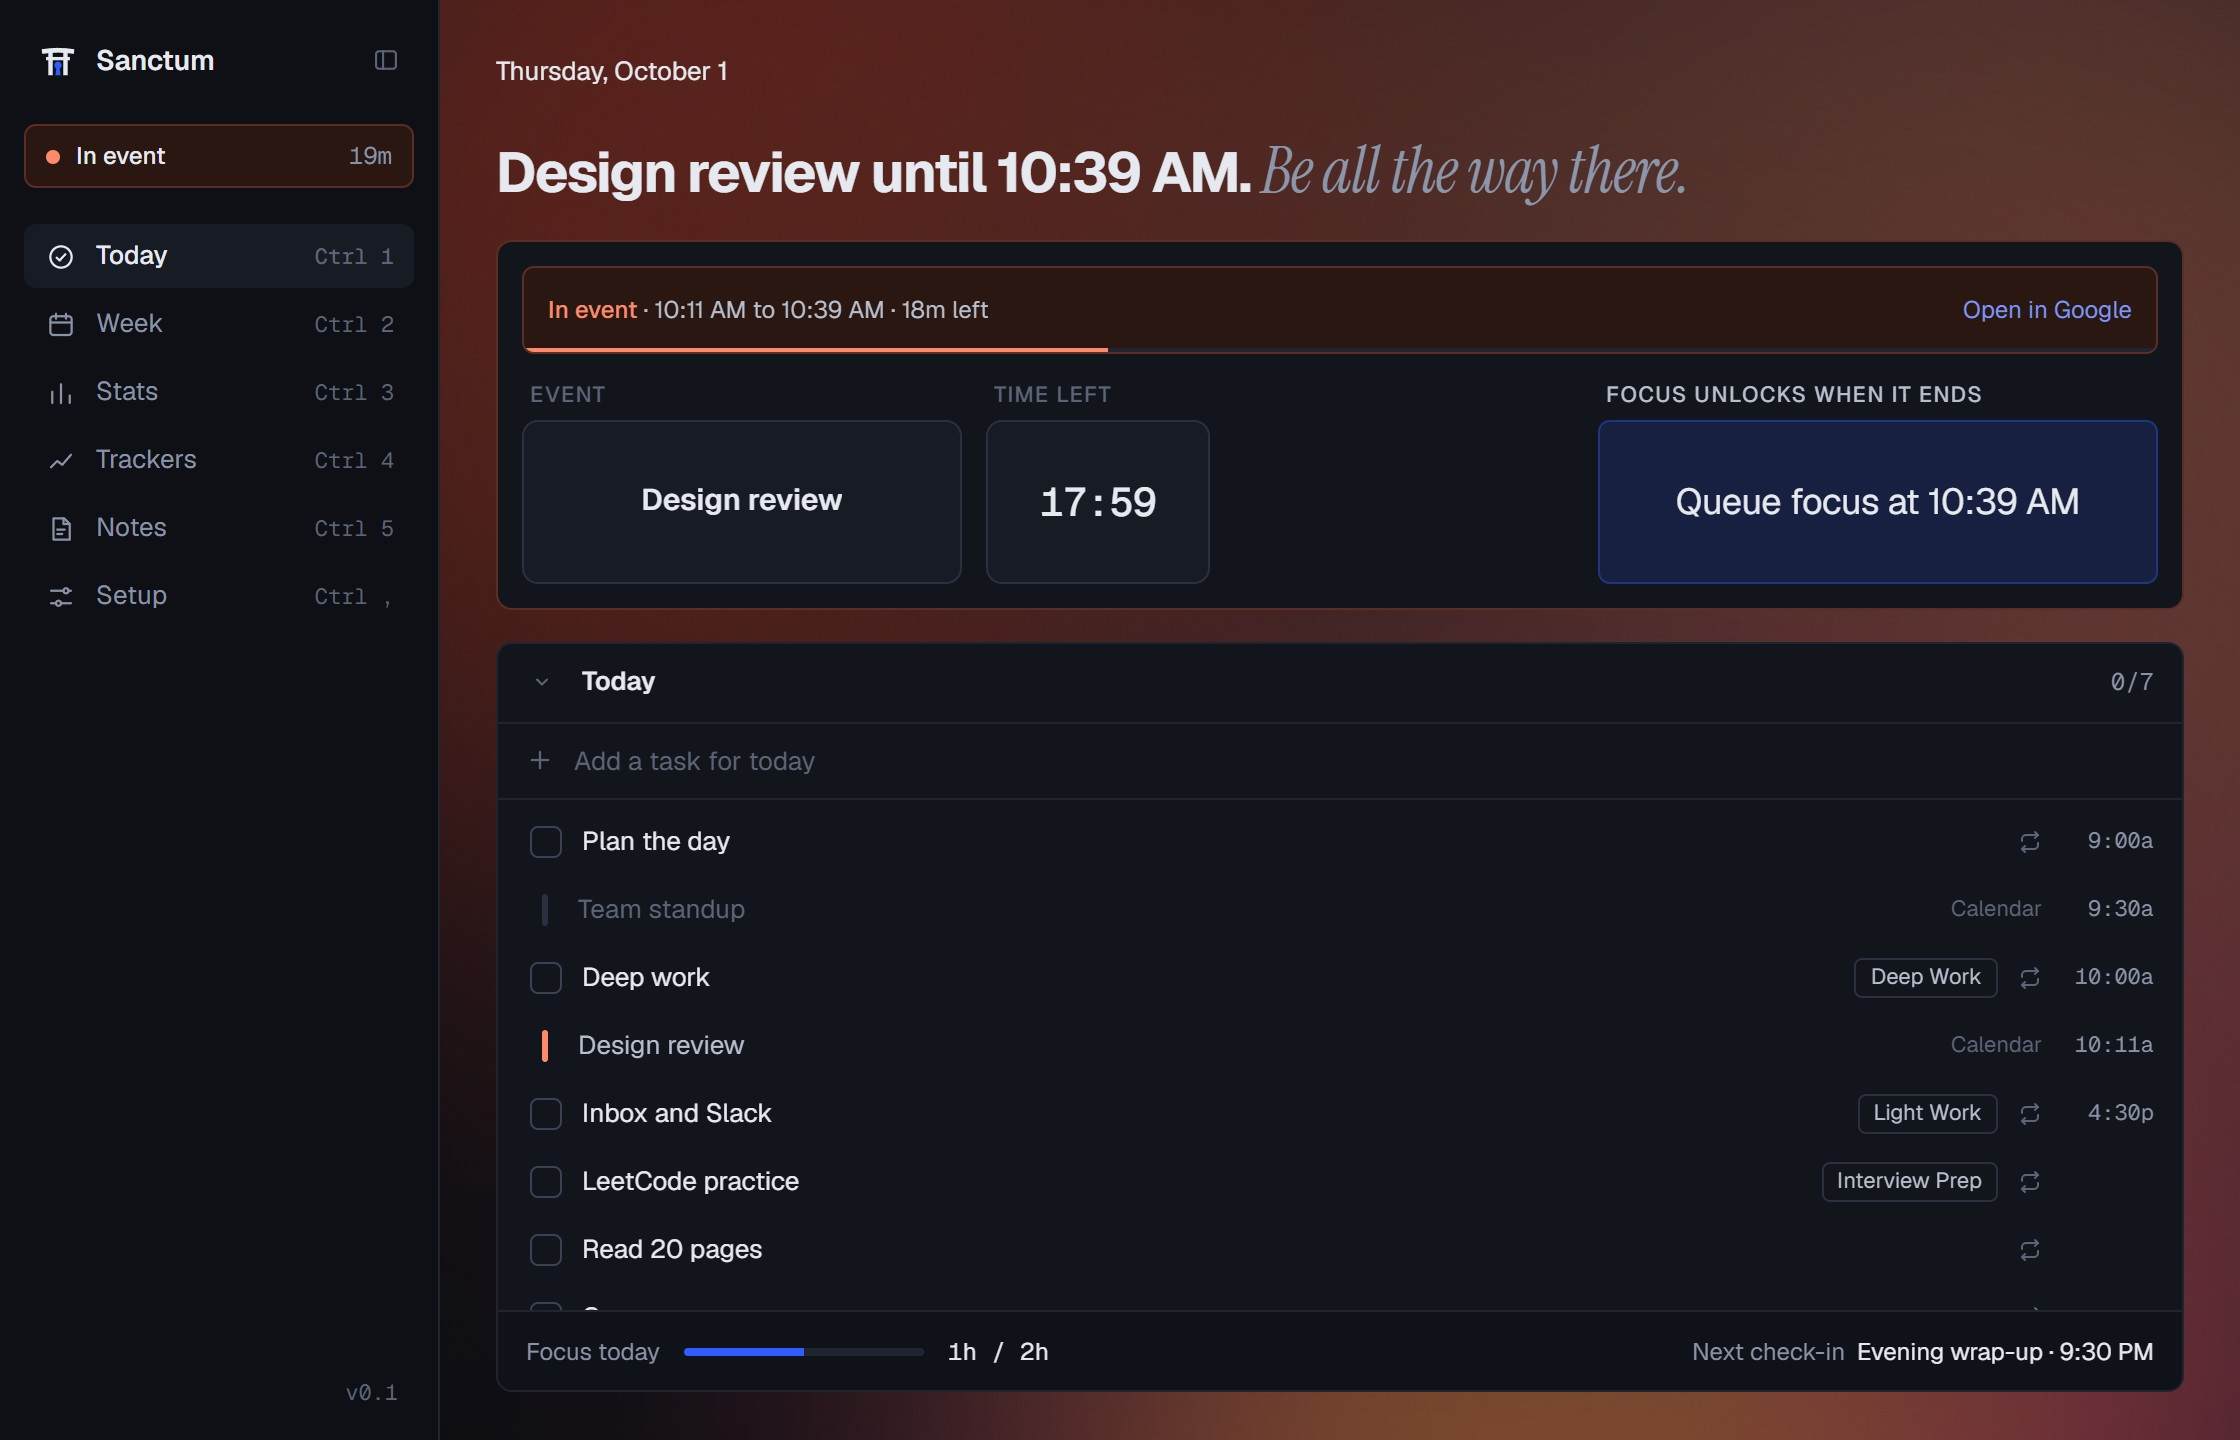
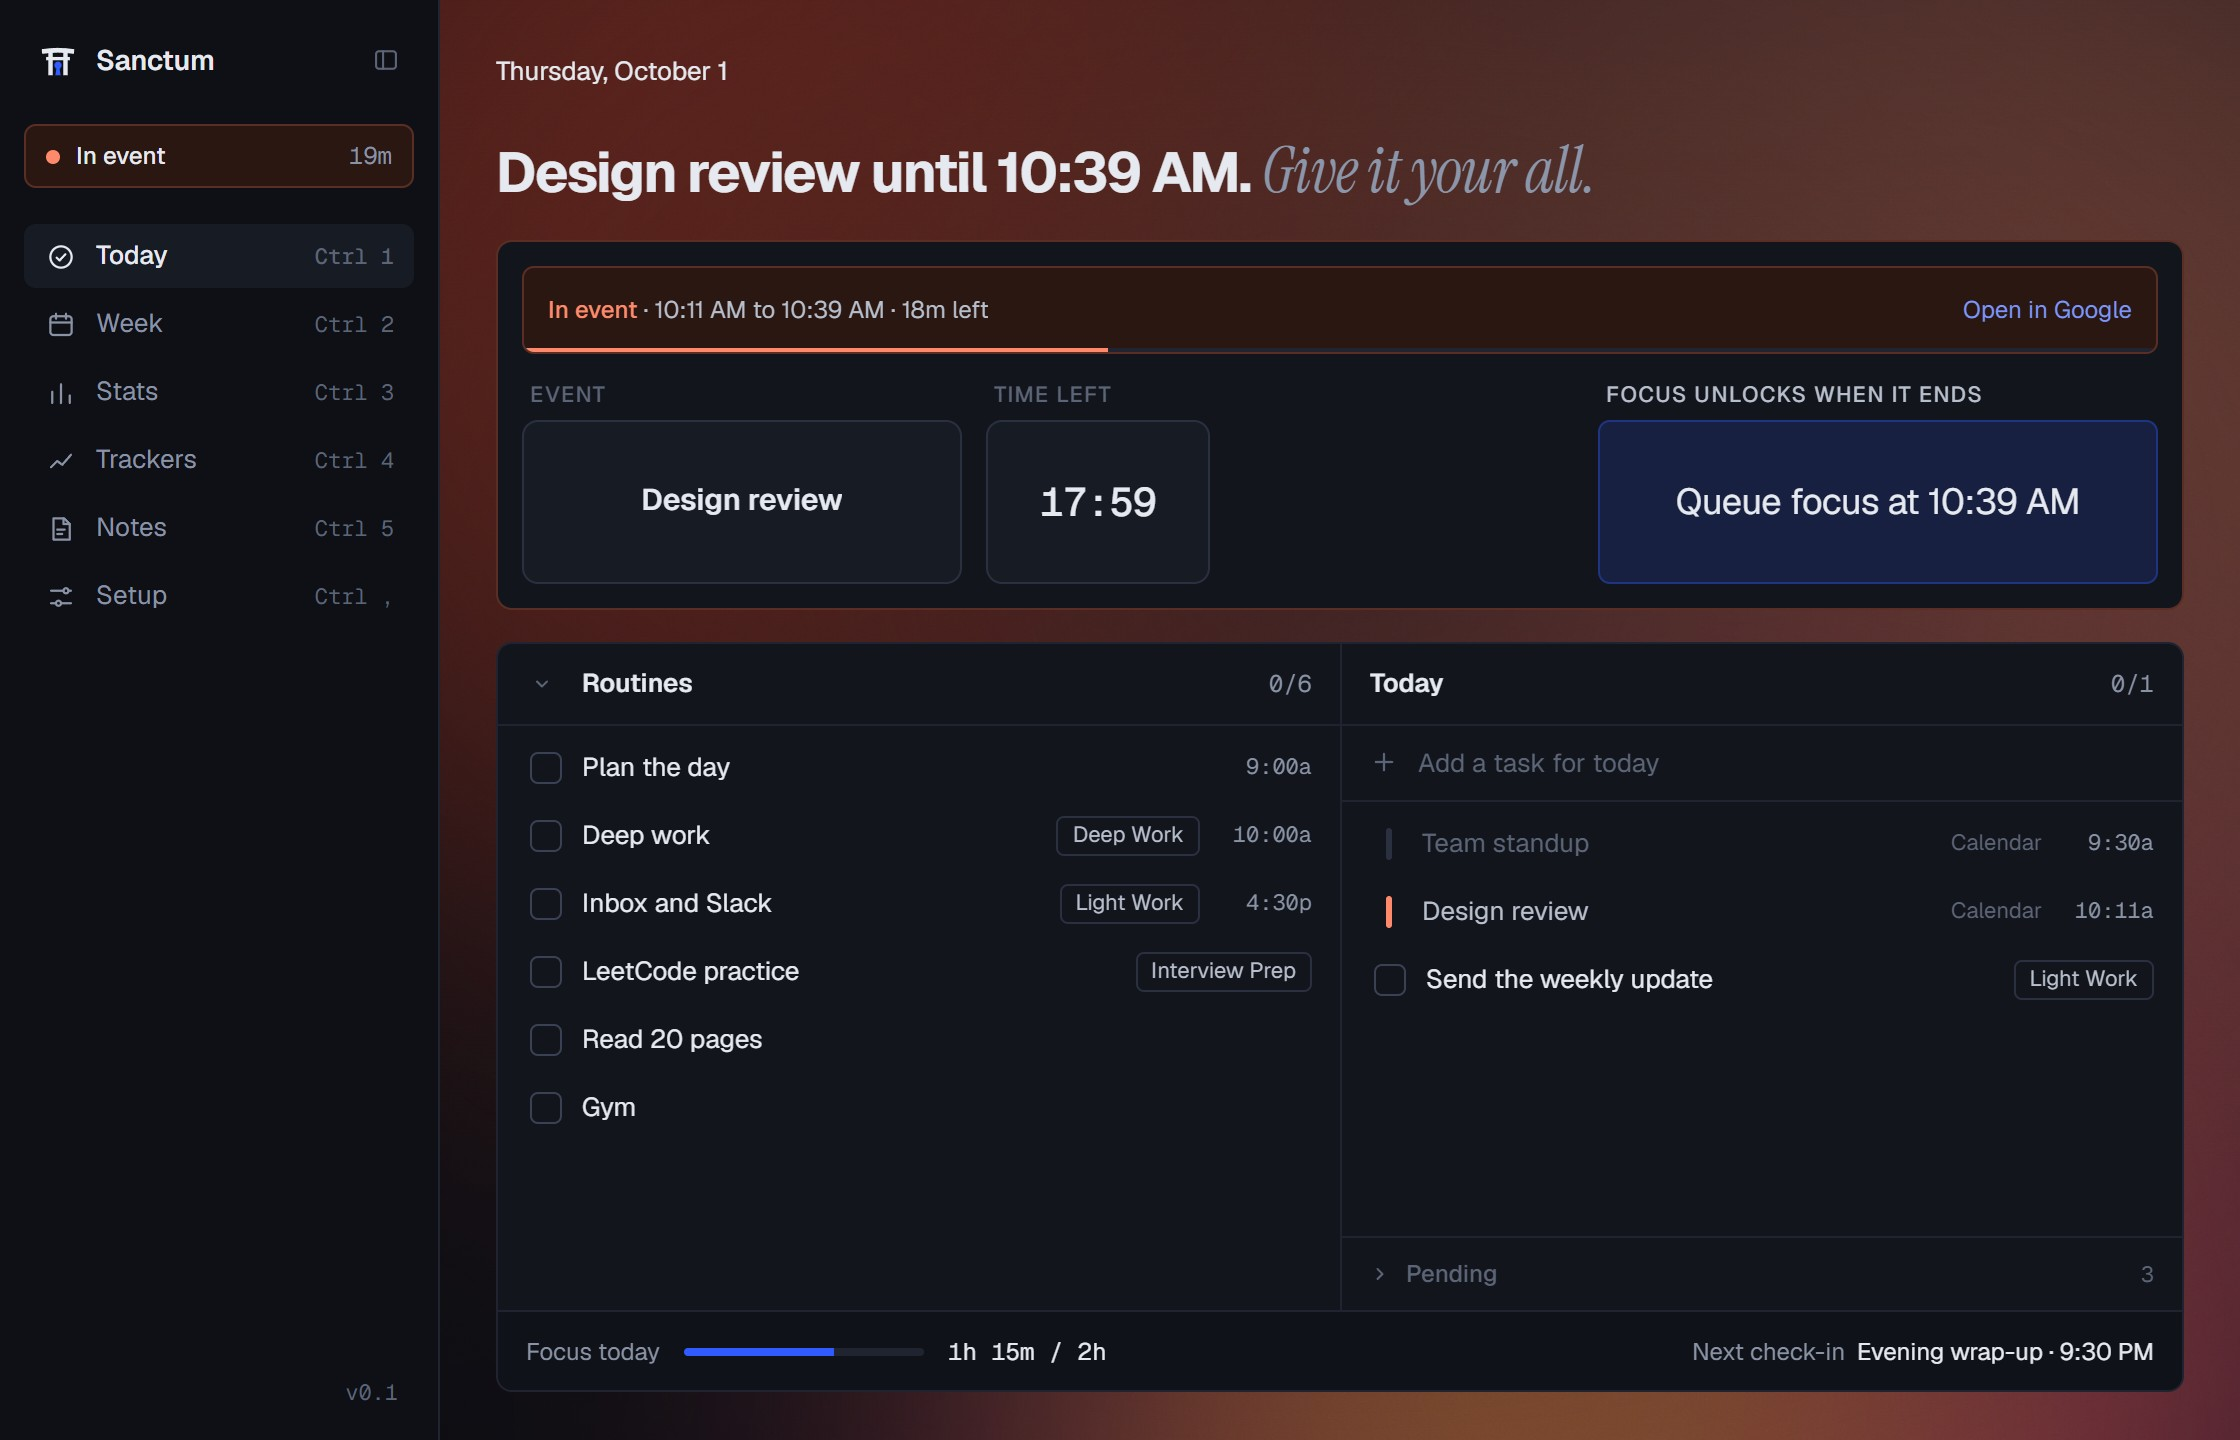
README: fresh screenshots (two-column Today, Pending, rotating headlines); held shot counts its attempt

diff --git a/src/lib/devSeed.ts b/src/lib/devSeed.ts
@@ -1,6 +1,6 @@
 import { inTauri, native } from "./native";
 import { mockControls } from "./mockBackend";
-import { addDays, todayKey } from "./planner";
+import { addDays, todayKey, weekStart } from "./planner";
 import { catalogDistractions, sampleProfiles } from "./catalog";
 import { EVERY_DAY, WEEKDAYS_MASK } from "./planner";
 
@@ -53,6 +53,12 @@ export function seedDevPlanner(): Promise<void> {
     ];
     for (const r of routines) await native.saveRoutine(r);
     await native.saveTodo({ title: "Send the weekly update", dueDate: todayKey(), dueTime: null, durationMin: null, profileId: id("Light Work") });
+    // Pending: this week's things with no day yet, and one for next week.
+    const week = weekStart(todayKey());
+    for (const title of ["Renew passport", "Book the dentist", "Back up the laptop"]) {
+      await native.saveTodo({ title, dueDate: week, dueTime: null, durationMin: null, profileId: null, undated: true });
+    }
+    await native.saveTodo({ title: "Plan the trip", dueDate: addDays(week, 7), dueTime: null, durationMin: null, profileId: null, undated: true });
     await native.setSetting("dev_seeded_planner", "1");
   })();
   return plannerRun;
